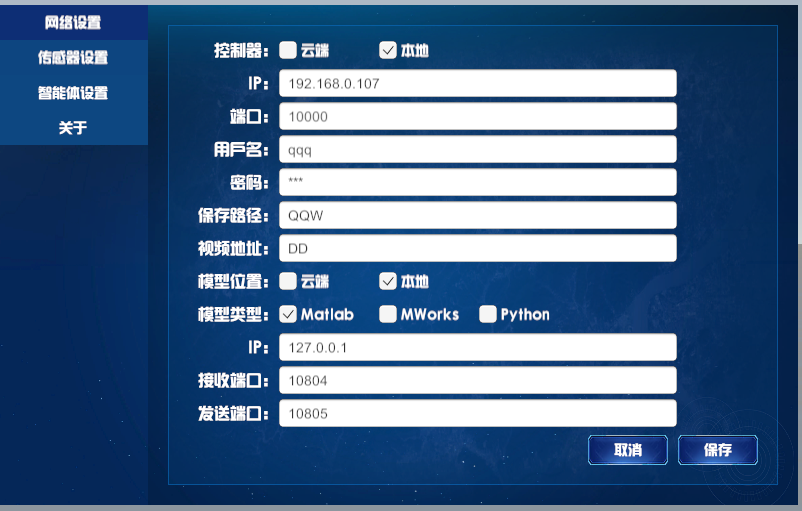
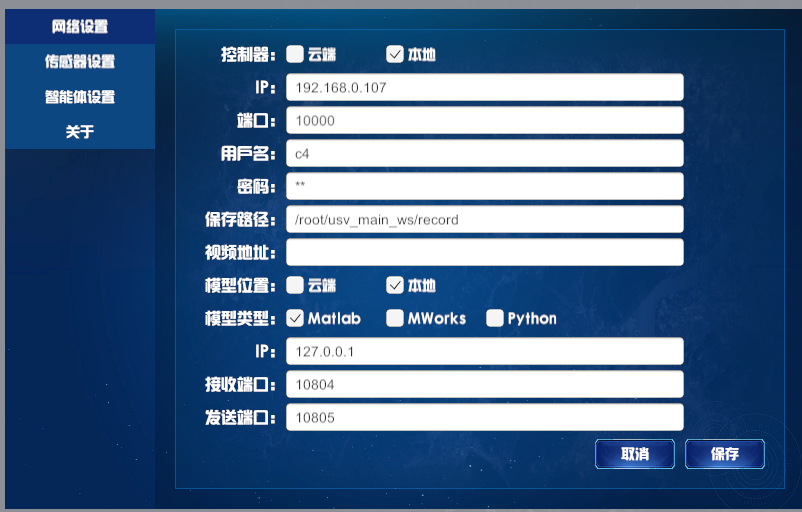
操作手册重新更新

Changed region(s): [[0.0, 0.0, 1.0, 0.998]]

diff --git a/docs/操作手册.md b/docs/操作手册.md
@@ -45,24 +45,6 @@
 |    转弯半径    |             油门100%，方向50%时，转向半径5m左右              |
 | 最大转向角速度 |                            45 °/s                            |
 
-### 2.2 无人船使用说明
-
--  无人船开机按钮在船体后方，按下按钮即可启动，启动后不要立即去动拨杆操控无人船，等待30s 后，可使用遥控器进行遥控。
--  使用手柄进行无人船操控时，需要将无人船遥控器左上角的拨杆向下拨动，等待10s，系统会切换至手柄模式
--  遥控器操控：需将遥控器左上方的拨片拨到下面， 等待10s，左右拨杆同时向前推表示操控无人船直线向前行驶，左侧拨杆推的幅度比右侧拨杆小，可以使无人船向右转，右侧拨杆推的幅度比左侧拨杆小，可以使无人船向左转，两个拨杆同时向后推可以使无人船倒车
--  手柄连接：无线手柄通过蓝牙与电脑连接即可，有限手柄需长按手柄中的圆形按钮，待【实时状态】栏中显示遥控器已连接即可。手柄链接后，需将无人船遥控器左上方的拨片拨到上面， 等待10s，即可开始操控，左边拨杆可控制前进和后退，右边拨杆可以控制方向。
--  使用无人船遥控器进行无人船的操纵时，尽量不要把拨杆推理推的太满，可能会导致无人船自身控制程序占用进程，出现船体右舵转圈的现象，解决方法是关闭电源重启
-
-### 2.3 无人船存放与平时维护须知
-
-
-> 1. 存放条件：无人船保养尽量在**室内存放**，后舱盖打开，排出舱内水汽
-> 2. 电量检查：1-2个月不使用的情况下，每个月要开机检查一下电压，看是否亏电，若亏电就补充一点，不可充太满。**存放期间31-32V**之间都可以，尽量**不要低于30V**。
-> 3. 满电电压：**满电33V ，低电压28V**，做实验之前要提前观察电量
-> 4. 其他：冬季实验，户外温度低于-10℃时，充电要回到屋子里恢复到室温再充电。（非低温电池）
-
-
-
 
 ## 3 部署流程
 
@@ -81,23 +63,37 @@
   ② 打开 MATLAB，启动 Simulink 水动力模型
           │
           ▼
-  ③ 启动 Unity 仿真平台，修改 IP 和端口号
+  ③ 启动具身智能仿真平台，修改 IP 和端口号
           │
           ▼
-  ④ 重启 Unity，切换为【算法训练】模式
+  ④ 重启具身智能仿真平台，切换为【算法训练】模式
           │
           ▼
-  ⑤ 打开 NavAlg 文件夹，运行 main 函数
+  ⑤ 设置config参数，运行 main 函数
           │
           ▼
-  ⑥ 在 Unity 中点击【开始训练】
+  ⑥ 在具身智能仿真平台中点击【开始训练】
 ```
 
-> **注意**：各步骤之间存在依赖关系，请严格按照序号顺序依次操作，切勿跳步或乱序执行。
+**注意：各步骤之间存在依赖关系，请严格按照序号顺序依次操作，切勿跳步或乱序执行。**
 
 ---
 
-### 3.2 关键步骤详解
+### 3.2 压缩包文件简介
+
+      **智能导航C4-2026**文件夹解压缩之后里面会有4个主要文件夹。
+
+**1、** **ros环境**文件夹有ros2设置完备的虚拟机，只需导入即可。
+
+**2、** **Model**文件夹提供无人船的水动力simulink模型。
+
+**3**、 **EmBoUnity**文件夹提供具身智能仿真平台，供智能体仿真使用。
+
+**4、** **NavAlg**文件夹提供导航避障算法，供智能体训练使用。
+
+---
+
+### 3.3 关键步骤详解
 
 #### 步骤一：打开虚拟机，自启动 ROS2
 
@@ -107,31 +103,27 @@
 
 ![VM_start](./image_file/VM_start.png)
 
-> **提示**：虚拟机启动后请记录当前虚拟机的 IP 地址，后续在 Unity 网络设置中需要填写该地址作为 ROS2 控制器 IP。
+**提示：虚拟机启动后请记录当前虚拟机的 IP 地址，后续在具身智能仿真平台网络设置中需要填写该地址作为 ROS2 控制器 IP。**
 
 ---
 
 #### 步骤二：打开 MATLAB，启动 Simulink 水动力模型
 
-&nbsp;&nbsp;&nbsp;&nbsp;&nbsp;&nbsp;双击打开 MATLAB，在命令行中输入路径切换指令，进入文件夹：**智能导航C4-2026\Model\Model\C4_2026**。随后在命令行输入以下指令，等待 Simulink 自动启动并运行无人船水动力模型：
+&nbsp;&nbsp;&nbsp;&nbsp;&nbsp;&nbsp;双击打开 MATLAB，在命令行中输入路径切换指令：**cd 路径名称**，进入文件夹：**智能导航C4-2026\Model\Model\C4_2026**。随后在命令行输入以下指令，等待 Simulink 自动启动并运行无人船水动力模型：
 
 ```matlab
 start_simulation
 ```
 
-&nbsp;&nbsp;&nbsp;&nbsp;&nbsp;&nbsp;Simulink 模型启动后，无人船的运动数学模型（包含风、浪、流干扰力解算）即开始运行，为 Unity 仿真平台提供符合物理规律的动力学数据支撑。
-
-![](./image_file/6open_matlab.png)
-
-![](./image_file/matlab_run.png)
+&nbsp;&nbsp;&nbsp;&nbsp;&nbsp;&nbsp;Simulink 模型启动后，无人船的运动数学模型（包含风、浪、流干扰力解算）即开始运行，为具身智能仿真平台提供符合物理规律的动力学数据支撑。
 
 ![13matlab_start](./image_file/13matlab_start.png)
 
-> **提示**：请确保 MATLAB 版本兼容，且 Simulink 模型已正常弹出窗口，方可进行下一步。
+**提示：请确保 MATLAB 版本兼容，且 Simulink 模型已正常弹出窗口，方可进行下一步。**
 
 ---
 
-#### 步骤三：启动 Unity 仿真平台，修改 IP 和端口号
+#### 步骤三：启动具身智能仿真平台，修改 IP 和端口号
 
 &nbsp;&nbsp;&nbsp;&nbsp;&nbsp;&nbsp;进入文件夹 **智能导航C4-2026\EmboUnity**，双击打开 **EmboUnity.exe**，在登录界面输入账号 `Bit01`、密码 `123456` 后登录平台（需在联网环境下运行）。进入平台后，点击菜单中的【系统设置】→【网络设置】，按以下规则填写网络参数并点击保存：
 
@@ -145,13 +137,15 @@ start_simulation
 
 ![wlsz](./image_file/wlsz.png)
 
-> **注意**：控制器 IP 需填写步骤一中虚拟机的实际 IP 地址，请勿填写固定值。
+	在系统设置中点击**传感器设置**，打开虚拟激光雷达，再点击**关于**，复制设备唯一标识，后续操作五会用到。
+
+**注意：控制器 IP 需填写步骤一中虚拟机的实际 IP 地址，请勿填写固定值。**
 
 ---
 
-#### 步骤四：重启 Unity，切换为算法训练模式
+#### 步骤四：重启具身智能仿真平台，切换为算法训练模式
 
-&nbsp;&nbsp;&nbsp;&nbsp;&nbsp;&nbsp;完成 IP 与端口设置并保存后，**重启 Unity 仿真平台**使网络配置生效。重启完成后观察界面左上角：ROS2 IP 旁的两条连接状态横线应显示为**一蓝一绿**，右侧基础状态栏中"船舶模型"应显示**通讯正常**，说明与 Simulink 模型及 ROS2 控制器的连接均已建立成功。
+&nbsp;&nbsp;&nbsp;&nbsp;&nbsp;&nbsp;完成 IP 与端口设置并保存后，**重启具身智能仿真平台**使网络配置生效。重启完成后观察界面左上角：ROS2 IP 旁的两条连接状态横线应显示为**一蓝一绿**，右侧基础状态栏中"船舶模型"应显示**通讯正常**，说明与 Simulink 模型及 ROS2 控制器的连接均已建立成功。
 
 ![szwc](./image_file/szwc.png)
 
@@ -159,32 +153,38 @@ start_simulation
 
 ![](./assets/algo.png)
 
-> **提示**：若连接横线显示异常（均为灰色或红色），请检查虚拟机是否正常运行、IP 填写是否正确，并重新保存网络配置后再次重启。
-
-
+**提示：若连接横线显示异常（均为灰色或红色），请检查虚拟机是否正常运行、IP 填写是否正确，并重新保存网络配置后再次重启。**
 
 ---
 
-#### 步骤五：打开 NavAlg 文件夹，运行 main 函数
+#### 步骤五：设置config参数，运行 main 函数
+
+      在路径**智能导航C4-2026\NavAlg\NavAlg\config.json**中设置**host**为虚拟机IP地址，**port**端口为**9090**，**deviceId**为步骤三中复制的设备唯一标识。
 
 &nbsp;&nbsp;&nbsp;&nbsp;&nbsp;&nbsp;打开以下路径所在的文件夹：
 
 ```
-智能导航C4-2026\NavAlg\NavAlg\usvlib4ros(1)\usvlib4ros
+智能导航C4-2026\NavAlg\NavAlg\usvlib4ros\usvlib4ros
 ```
 
-&nbsp;&nbsp;&nbsp;&nbsp;&nbsp;&nbsp;在该目录中找到算法主入口文件，运行 **main 函数**以启动强化学习算法进程。算法启动后将自动通过 ROS 与仿真平台建立通信连接，订阅虚拟传感器的 Topic 数据，等待来自 Unity 仿真平台的心跳信号（虚拟传感器数据流）触发训练流程。
+&nbsp;&nbsp;&nbsp;&nbsp;&nbsp;&nbsp;在该目录中找到算法主入口文件，运行 **main 函数**以启动强化学习算法进程。算法启动后将自动通过 ROS2 与仿真平台建立通信连接，订阅虚拟传感器的 Topic 数据，等待来自具身智能仿真平台的心跳信号（虚拟传感器数据流）触发训练流程。代码正常运行应在控制台有如下提示：
 
-> **提示**：运行前请确保算法中连接的 ROS 服务端 Host 地址与虚拟机 IP 一致，以及设备号deviceId与unity系统设置-关于-设备唯一标识一致。
+![hsyx](./image_file/hsyx.png)
+
+**提示：运行前请确保算法中连接的 ROS2 服务端 Host 地址与虚拟机 IP 一致，以及设备号deviceId与具身智能仿真平台系统设置-关于-设备唯一标识一致。**
 
 ---
 
-#### 步骤六：在 Unity 中点击【开始训练】
+#### 步骤六：在具身智能仿真平台中点击【开始训练】
 
-&nbsp;&nbsp;&nbsp;&nbsp;&nbsp;&nbsp;当算法端检测到虚拟传感器数据已正常读入（通过 ROS 订阅服务收到数据），说明算法进程与仿真平台的通信链路已建立完成。此时回到 Unity 仿真平台界面，点击【**开始训练**】按钮，即可正式启动强化学习训练流程。
+&nbsp;&nbsp;&nbsp;&nbsp;&nbsp;&nbsp;当算法端检测到虚拟传感器数据已正常读入（通过 ROS 订阅服务收到数据），说明算法进程与仿真平台的通信链路已建立完成。此时回到具身智能仿真平台界面，点击【**开始训练**】按钮，即可正式启动强化学习训练流程。
+
+![ksxl](./image_file/ksxl.png)
+
+
 
 &nbsp;&nbsp;&nbsp;&nbsp;&nbsp;&nbsp;训练启动后，平台将根据预设的航线、障碍物布局和智能体参数，持续进行算法迭代与仿真推演。可在实时状态界面中观察无人船的姿态、速度、轨迹等运行状态信息。
 
-![17status_disply](./image_file/17status_disply.png)
+![xlgc](./image_file/xlgc.png)
 
-> **提示**：若点击【开始训练】后无响应，请检查算法端是否已成功运行且已检测到传感器数据输入，确保通信链路建立后再重新点击。
+**提示：若点击【开始训练】后无响应，请检查算法端是否已成功运行且已检测到传感器数据输入，确保通信链路建立后再重新点击。**
